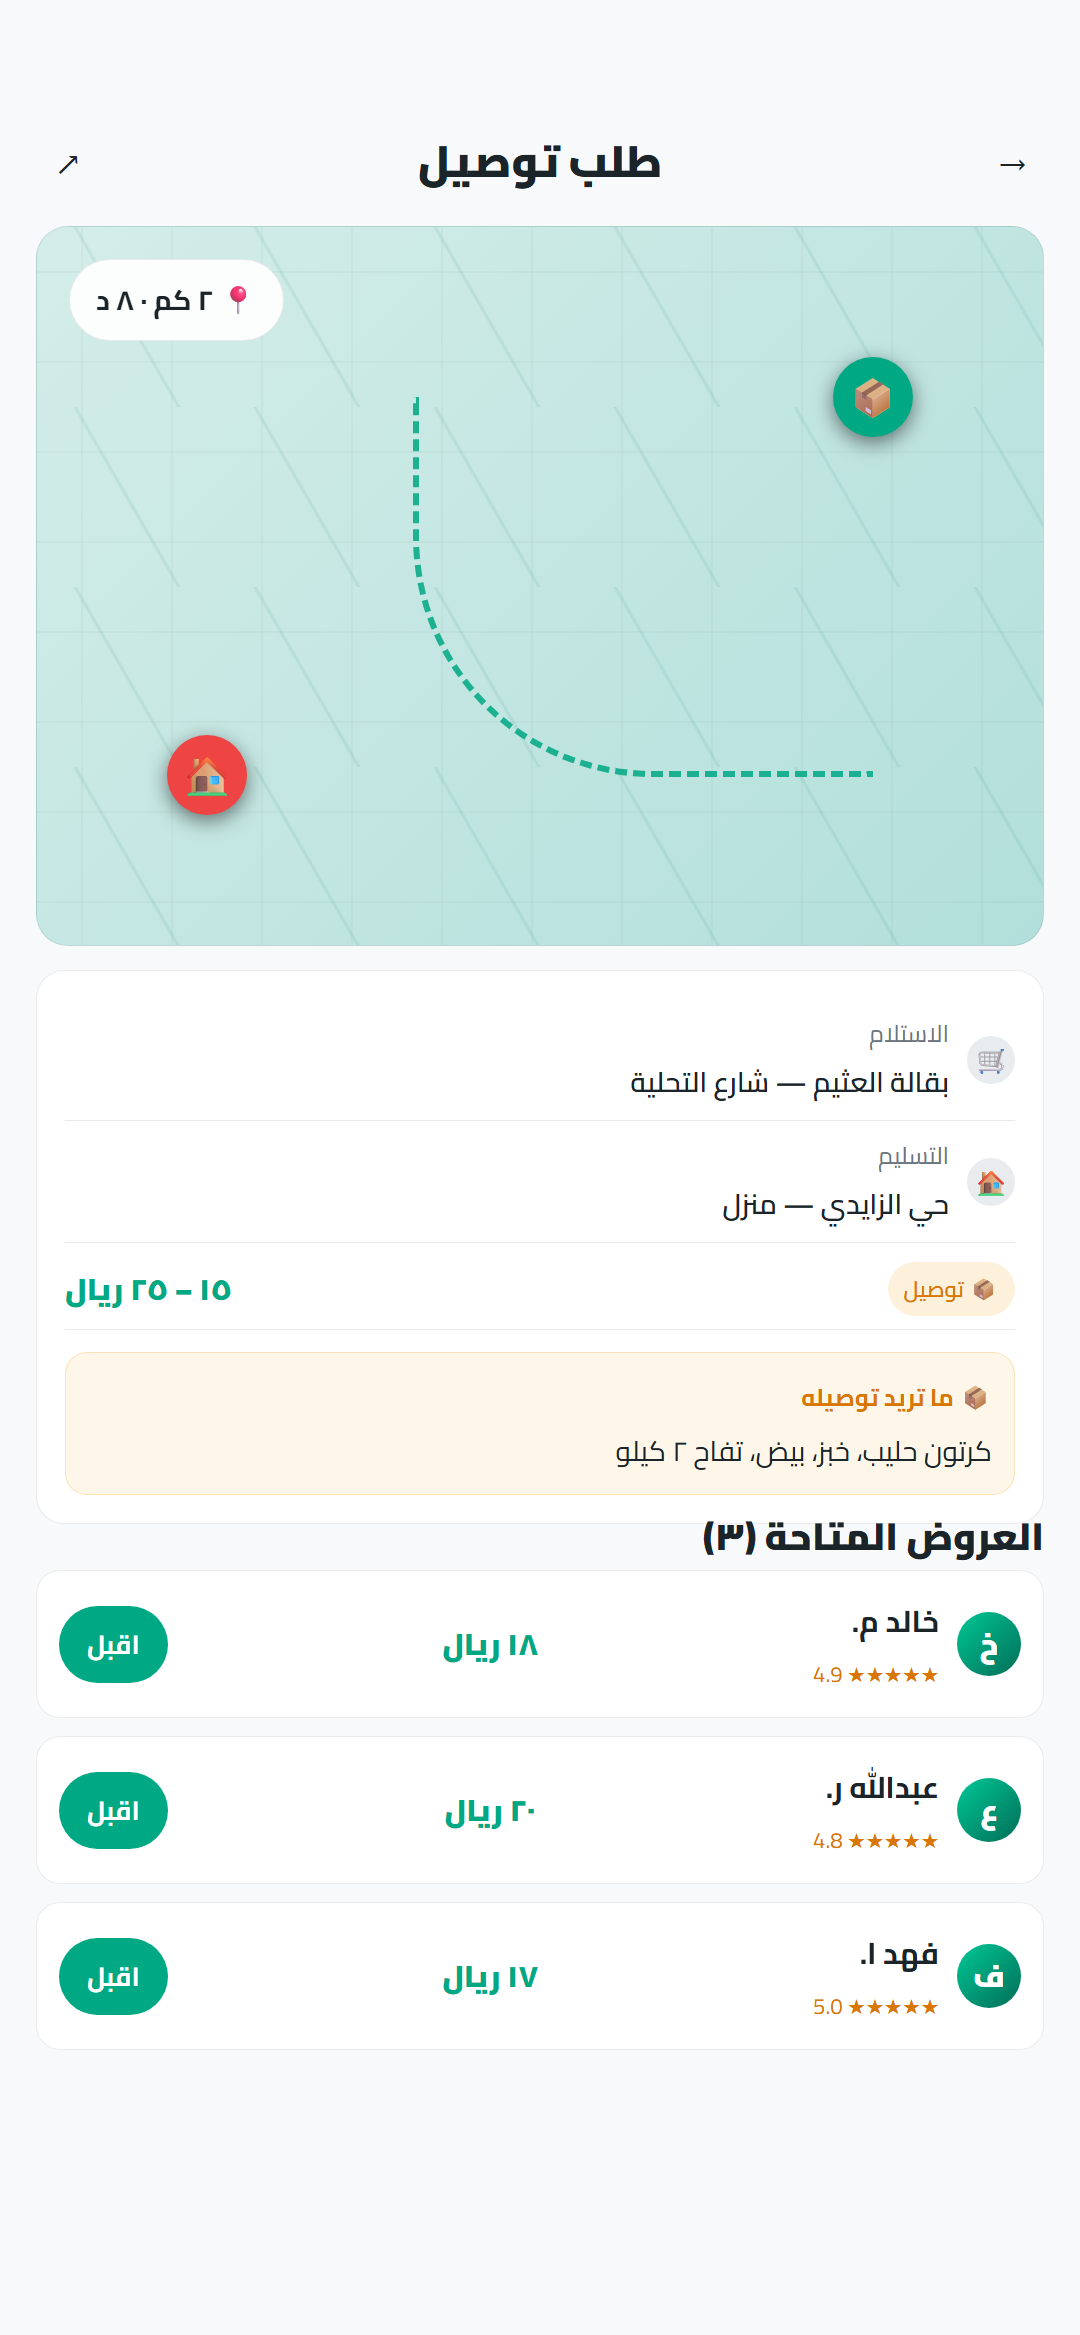
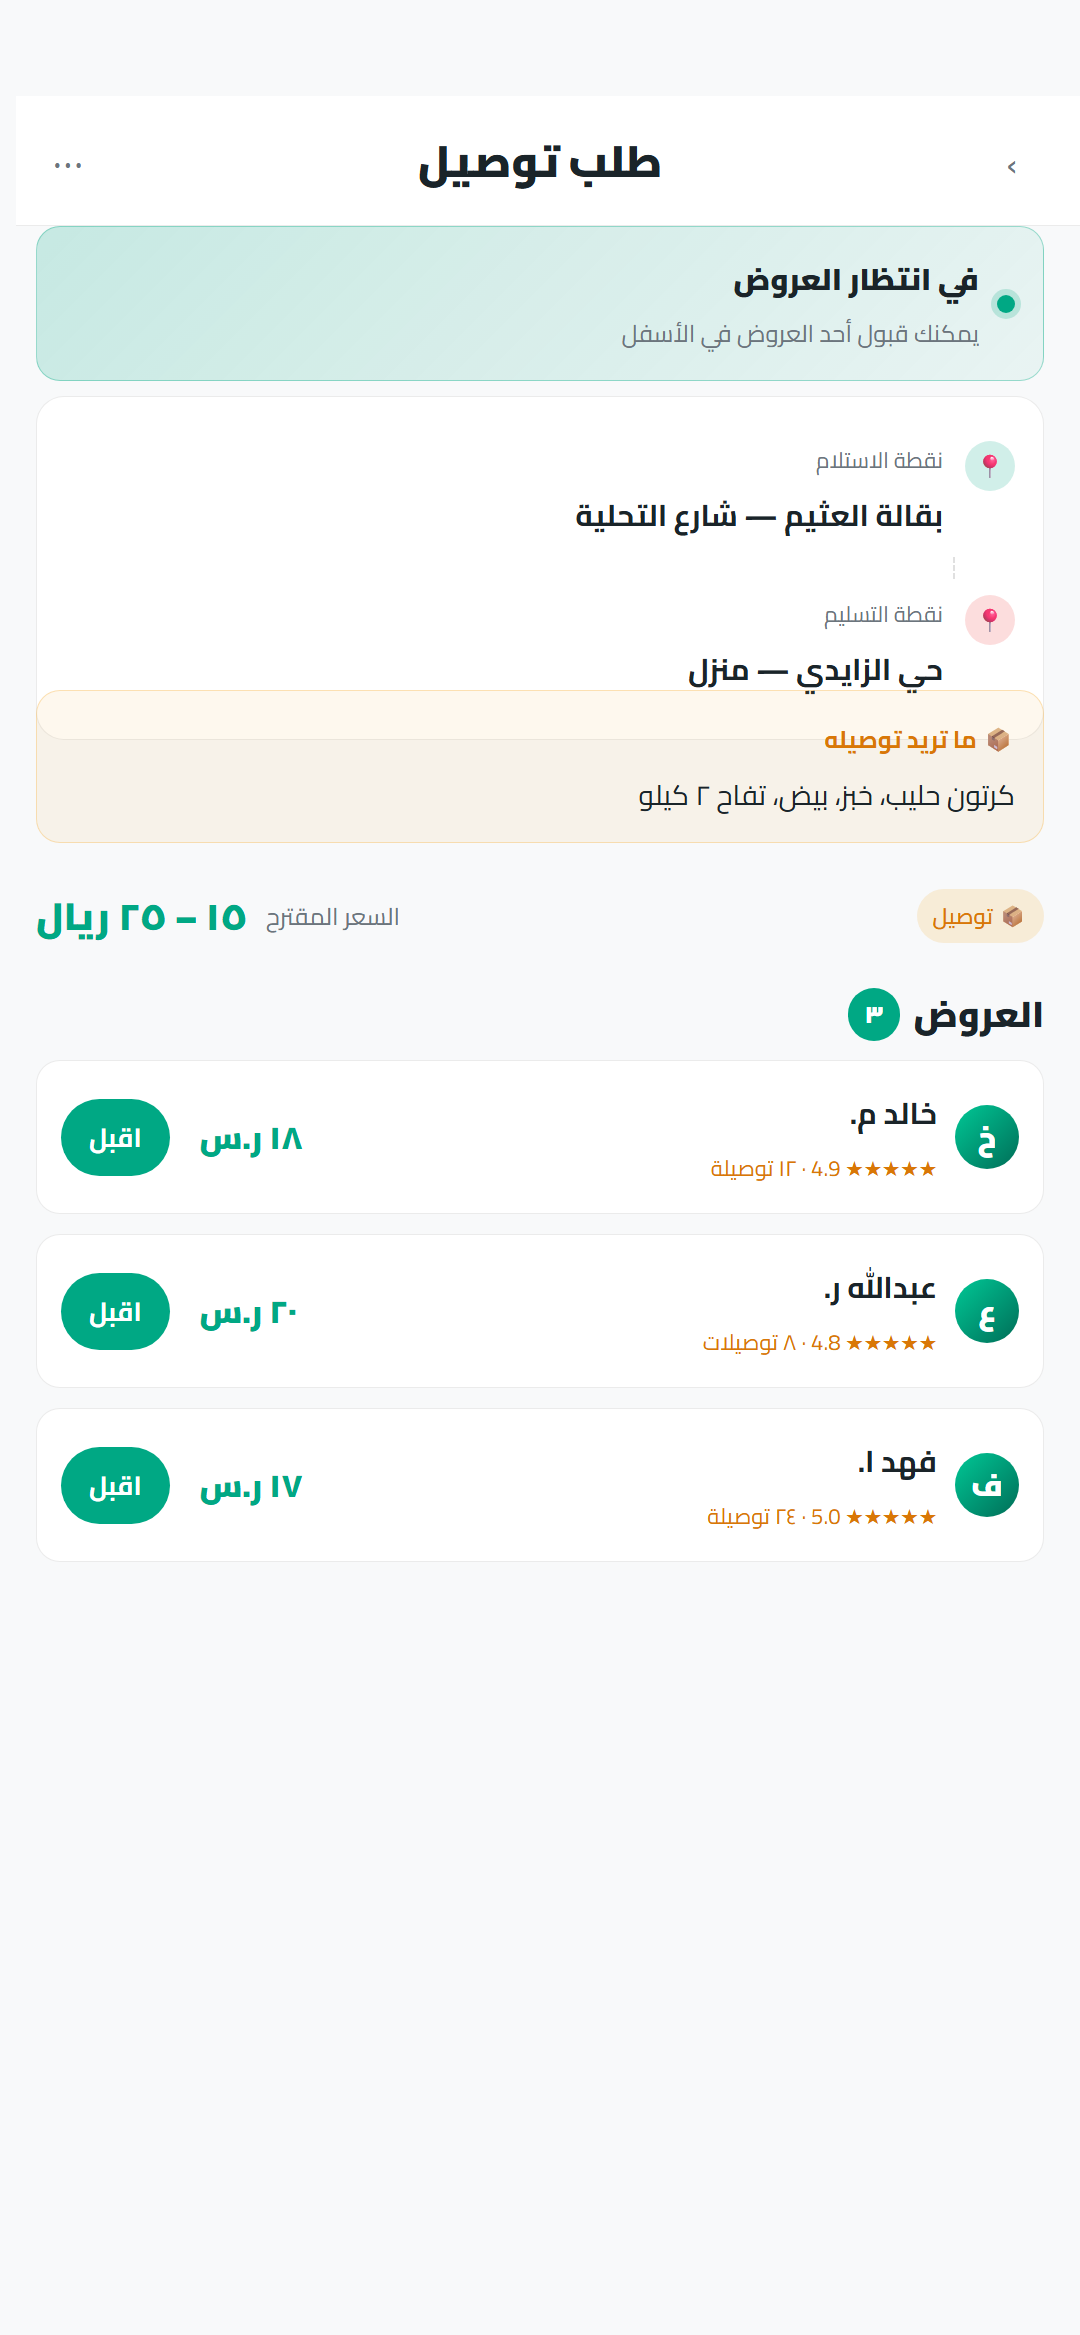
Ride mockup: drop the fake map, mirror the real screen
The previous render had a stylised map view that doesn't exist in
the app. The actual RideDetailClient screen shows pickup/dropoff
as text rows with green/red FiMapPin icons (no map). Rewrote the
mockup to match: status banner, locations card, item description,
price, then the offers list.

Bumped cache-bust version too so the new image actually shows up.

diff --git a/src/components/PhoneMockup.tsx b/src/components/PhoneMockup.tsx
@@ -15,7 +15,7 @@
 export default function PhoneFrame({ src, label }: { src: string; label: string }) {
   const lightSrc = src.replace(/(\.[^./]+)$/, '-light$1')
   // Cache-bust so a stale CDN copy can't hide the latest mockup edit.
-  const v = '2026-05-07b'
+  const v = '2026-05-07c'
   const dark = `${src}?v=${v}`
   const light = `${lightSrc}?v=${v}`
   return (
